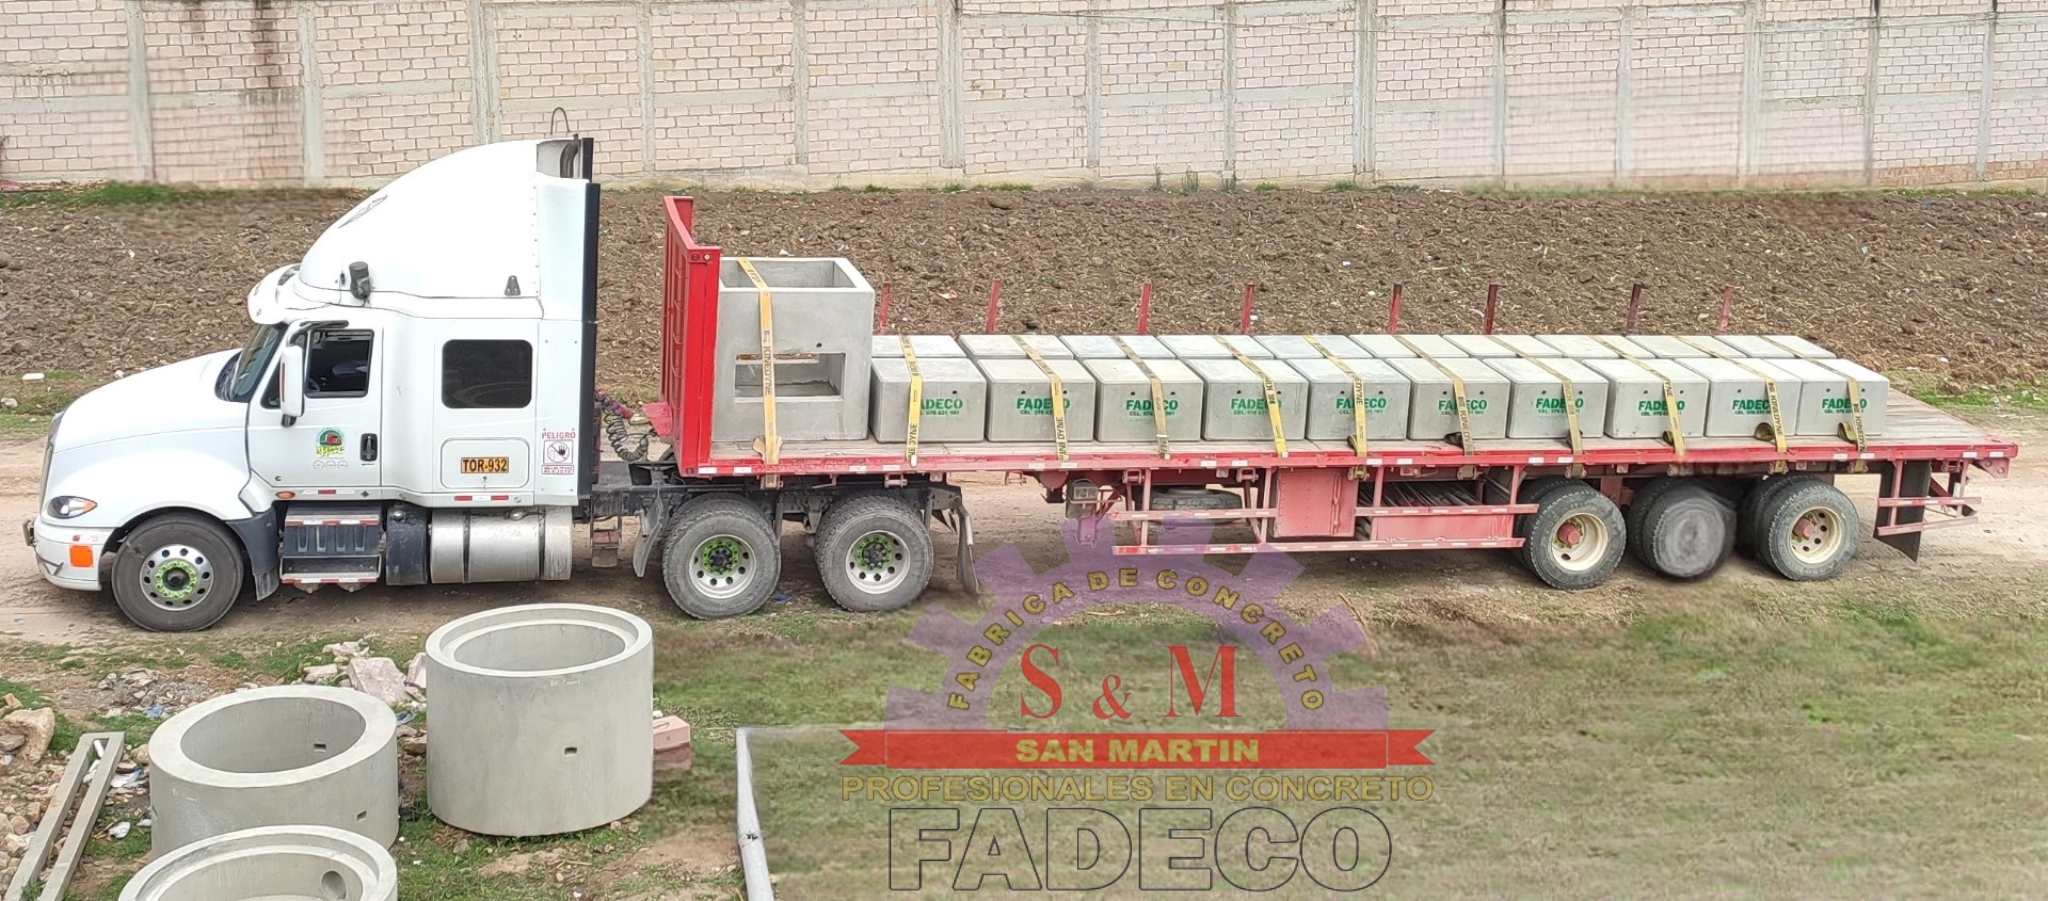
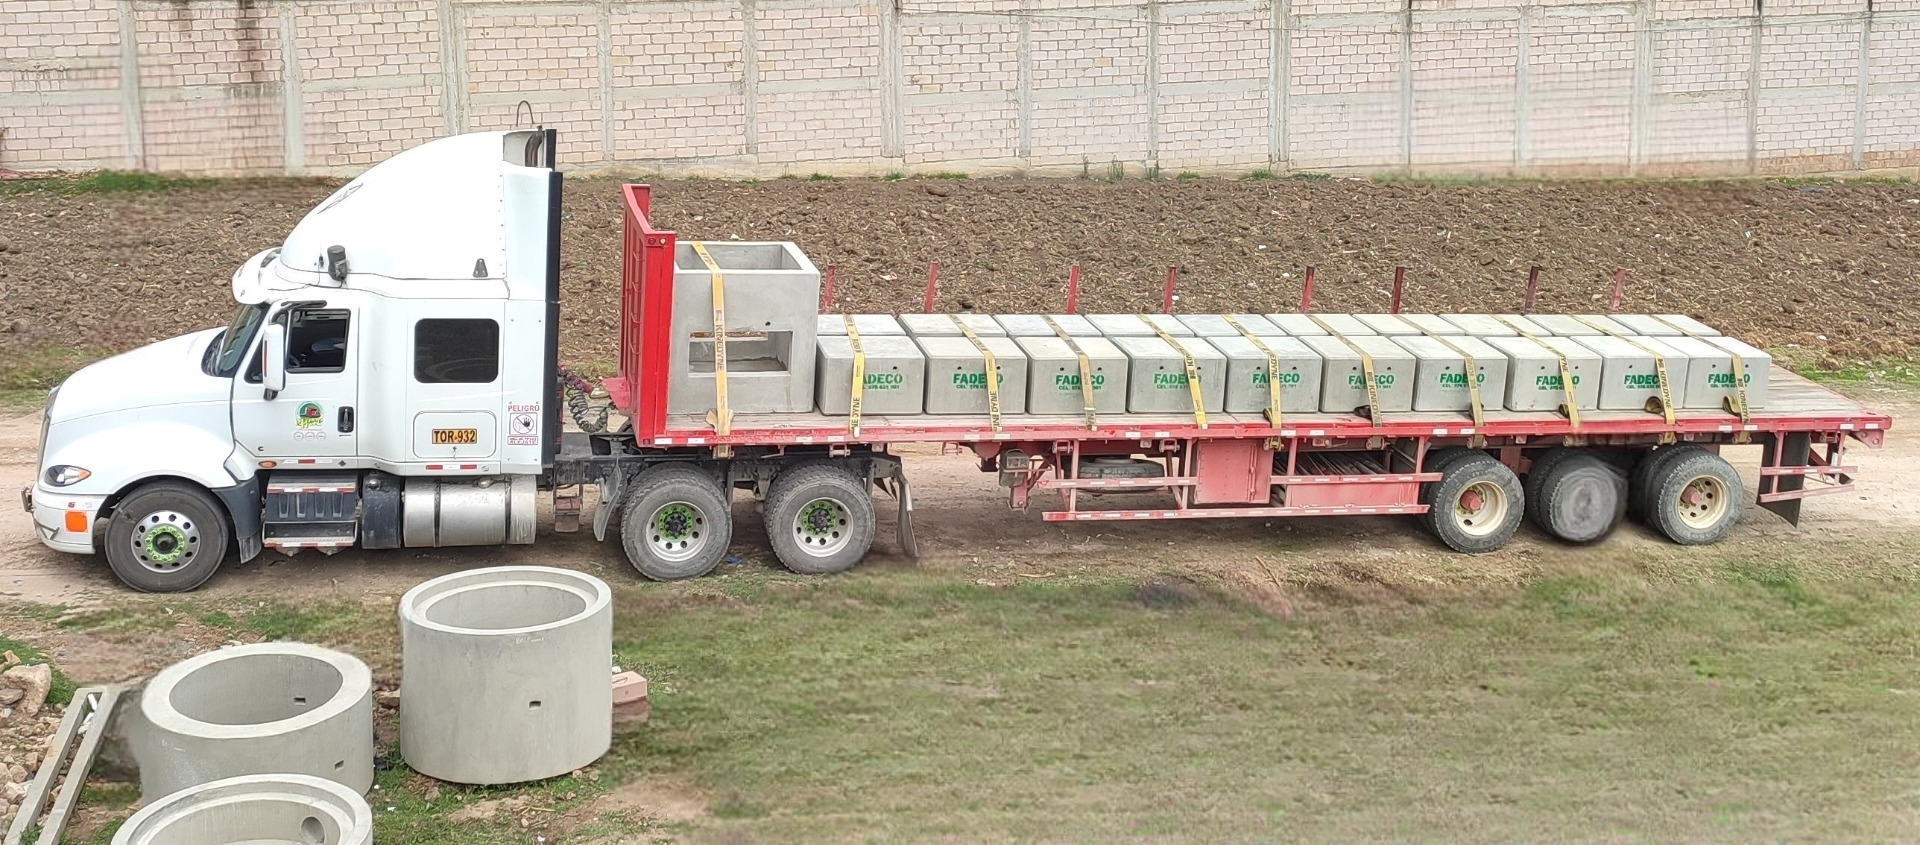
Agregando fotos sin marca de agua

diff --git a/src/components/proyectos/datosProyectos.js b/src/components/proyectos/datosProyectos.js
@@ -1,40 +1,38 @@
 //EIGR
 import eigr from "../../images/Proyectos/EIGR/EIGR-5.png";
-import eigr1 from "../../images/Proyectos/EIGR/EIGR-1.png";
-import eigr2 from "../../images/Proyectos/EIGR/EIGR-2.png";
-import eigr3 from "../../images/Proyectos/EIGR/EIGR-4.png";
-import eigr4 from "../../images/Proyectos/EIGR/EIGR-6.png";
+import eigr1 from "../../images/Proyectos/EIGR/EIGR-1.jpg";
+import eigr2 from "../../images/Proyectos/EIGR/EIGR-2.jpg";
+import eigr3 from "../../images/Proyectos/EIGR/EIGR-4.jpg";
+import eigr4 from "../../images/Proyectos/EIGR/EIGR6.jpg";
 import eigr5 from "../../images/Proyectos/EIGR/EIGR-8.png";
 import eigr6 from "../../images/Proyectos/EIGR/EIGR-7.png";
 
 //TECNOFAST
 import tecnof from "../../images/Proyectos/TECNOFAST/tecnofast.png";
-import tecnof1 from "../../images/Proyectos/TECNOFAST/tecnofast-1.png";
+import tecnof1 from "../../images/Proyectos/TECNOFAST/tecnofast-1.jpg";
 import tecnof2 from "../../images/Proyectos/TECNOFAST/tecnofast-2.png";
 import tecnof3 from "../../images/Proyectos/TECNOFAST/tecnofast-3.png";
 import tecnof4 from "../../images/Proyectos/TECNOFAST/tecnofast-4.png";
 
 
+//CAM - EQUANS
+import equans from "../../images/Proyectos/EQUANS/CAM2.png";
+import equans2 from "../../images/Proyectos/EQUANS/CAM3.png";
+import equans1 from "../../images/Proyectos/EQUANS/CAM1.png";
 
-//EQUANS
-import equans from "../../images/Proyectos/EQUANS/CAM-2.png";
-import equans2 from "../../images/Proyectos/EQUANS/CAM-3.png";
-import equans1 from "../../images/Proyectos/EQUANS/CAM.png";
-
-
-//MPC
-import mpc from "../../images/Proyectos/MPC/mpc-5.png";
-import mpc1 from "../../images/Proyectos/MPC/mpc-1.png";
-import mpc2 from "../../images/Proyectos/MPC/mpc-2.png";
-import mpc3 from "../../images/Proyectos/MPC/mpc-3.png";
-import mpc4 from "../../images/Proyectos/MPC/mpc-4.png";
-import mpc5 from "../../images/Proyectos/MPC/proyec1.png";
 //CHAQUICOCHA
 import chaq from "../../images/Proyectos/Chaquicocha/chaquicocha.png";
-import chaq1 from "../../images/Proyectos/Chaquicocha/chaquicocha-1.png";
-import chaq2 from "../../images/Proyectos/Chaquicocha/Chaquicocha-2.png";
-import chaq3 from "../../images/Proyectos/Chaquicocha/Chaquicocha-3.png";
-import chaq4 from "../../images/Proyectos/Chaquicocha/Chaquicocha-4.png";
+import chaq1 from "../../images/Proyectos/Chaquicocha/chaquicocha1.png";
+import chaq2 from "../../images/Proyectos/Chaquicocha/chaquicocha2.png";
+import chaq3 from "../../images/Proyectos/Chaquicocha/chaquicocha3.png";
+import chaq4 from "../../images/Proyectos/Chaquicocha/chaquicocha4.png";
+//MPC
+import mpc from "../../images/Proyectos/MPC/mpc5.png";
+import mpc1 from "../../images/Proyectos/MPC/mpc1.jpg";
+import mpc2 from "../../images/Proyectos/MPC/mpc2.png";
+import mpc3 from "../../images/Proyectos/MPC/mpc3.jpg";
+import mpc4 from "../../images/Proyectos/MPC/mpc4.jpg";
+import mpc5 from "../../images/Proyectos/MPC/mpc6.jpg";
 //BALIP
 import balip from "../../images/Proyectos/BALIP/Balip.png";
 import balip1 from "../../images/Proyectos/BALIP/Balip-2.png";
@@ -101,7 +99,7 @@ const proyectos = [
       lugar: "Cajamarca - 2022",
       proyecto:
         "INSTALACIONES DE REDES DE AGUA, RED DESAGÜE, RED PLUVIAL CAMPAMENTO Km 52 - PROYECTO SULFUROS",
-      imagenes:[chaq, chaq1, chaq2, chaq3, chaq4],
+      imagenes:[chaq1, chaq2, chaq3, chaq4],
     },
     {
       id:"4",

diff --git a/src/components/carousel/Carousel.jsx b/src/components/carousel/Carousel.jsx
@@ -1,9 +1,9 @@
 import AwesomeSlider from "react-awesome-slider";
 import withAutoplay from "react-awesome-slider/dist/autoplay";
 import "react-awesome-slider/dist/styles.css";
-import imagen1 from "../../images/Slides/Slide5.jpg";
-import imagen2 from "../../images/Slides/Slide_5.jpg";
-import imagen3 from "../../images/Slides/Slide_1.jpg";
+import imagen1 from "../../images/Slides/Slide1.jpg";
+import imagen2 from "../../images/Slides/Slide2.jpg";
+import imagen3 from "../../images/Slides/Slide3.jpg";
 import "./Carousel.css";
 import "react-awesome-slider/dist/captioned.css";
 import CarouselInfo from "./CarouselInfo";
